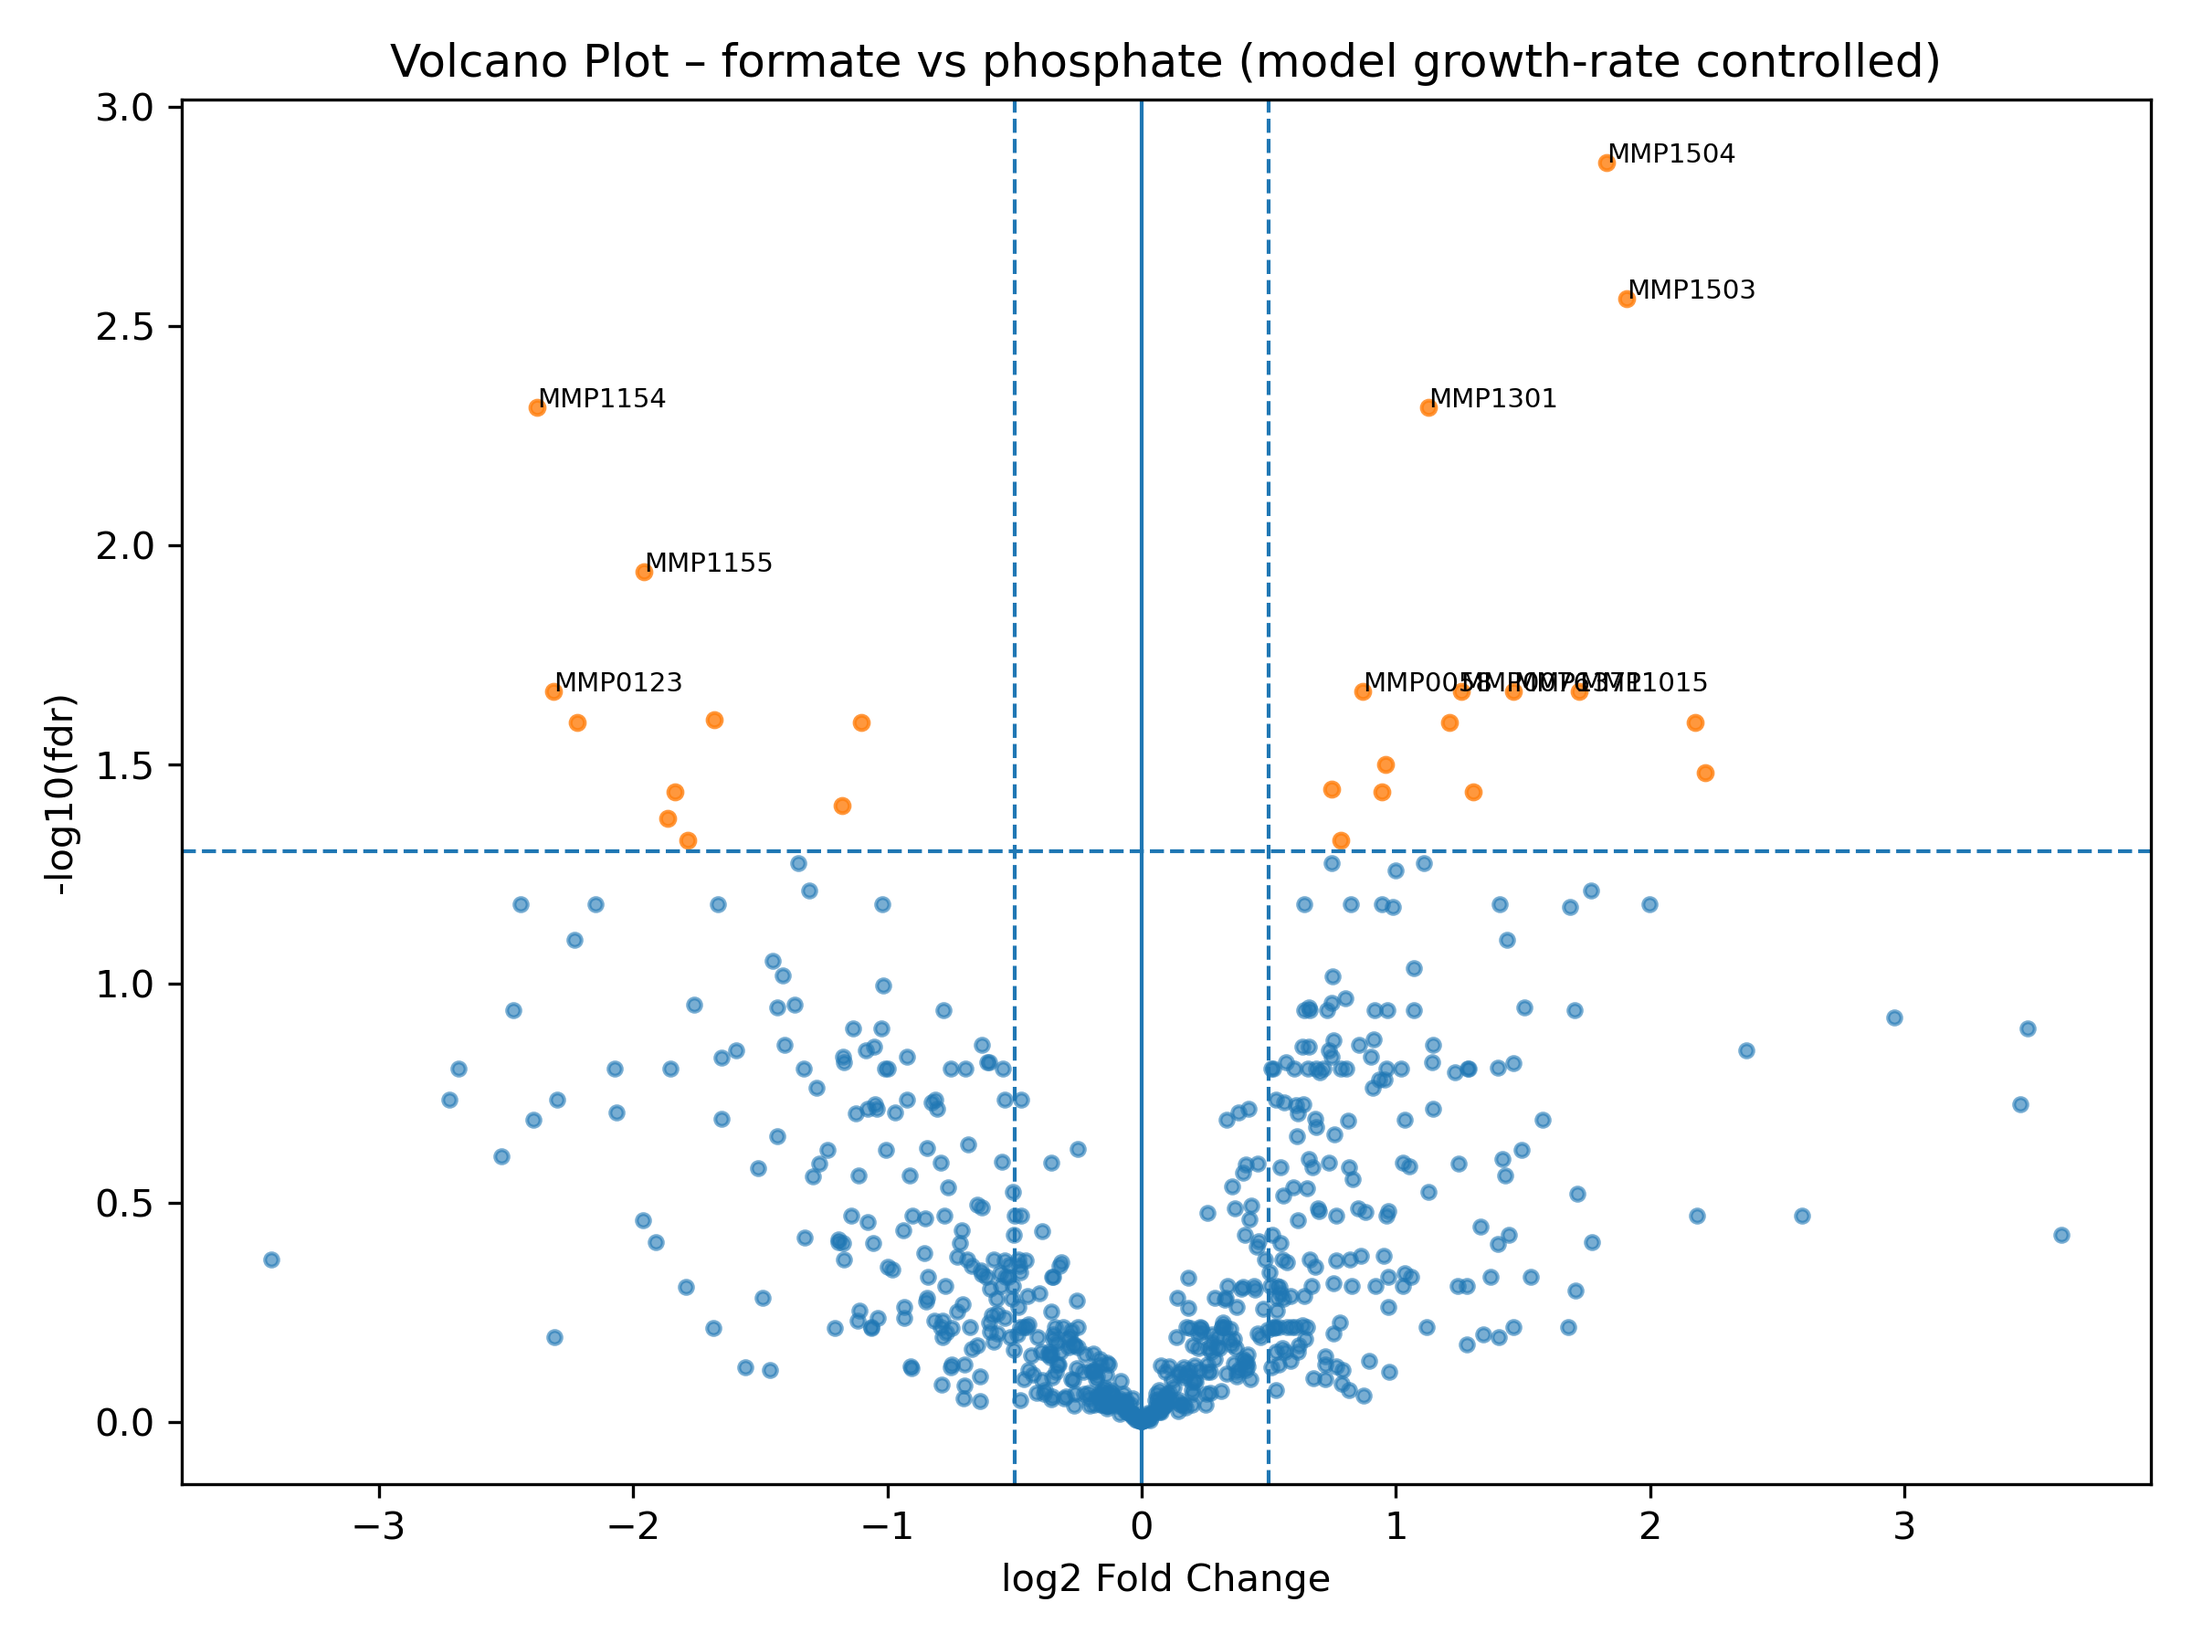
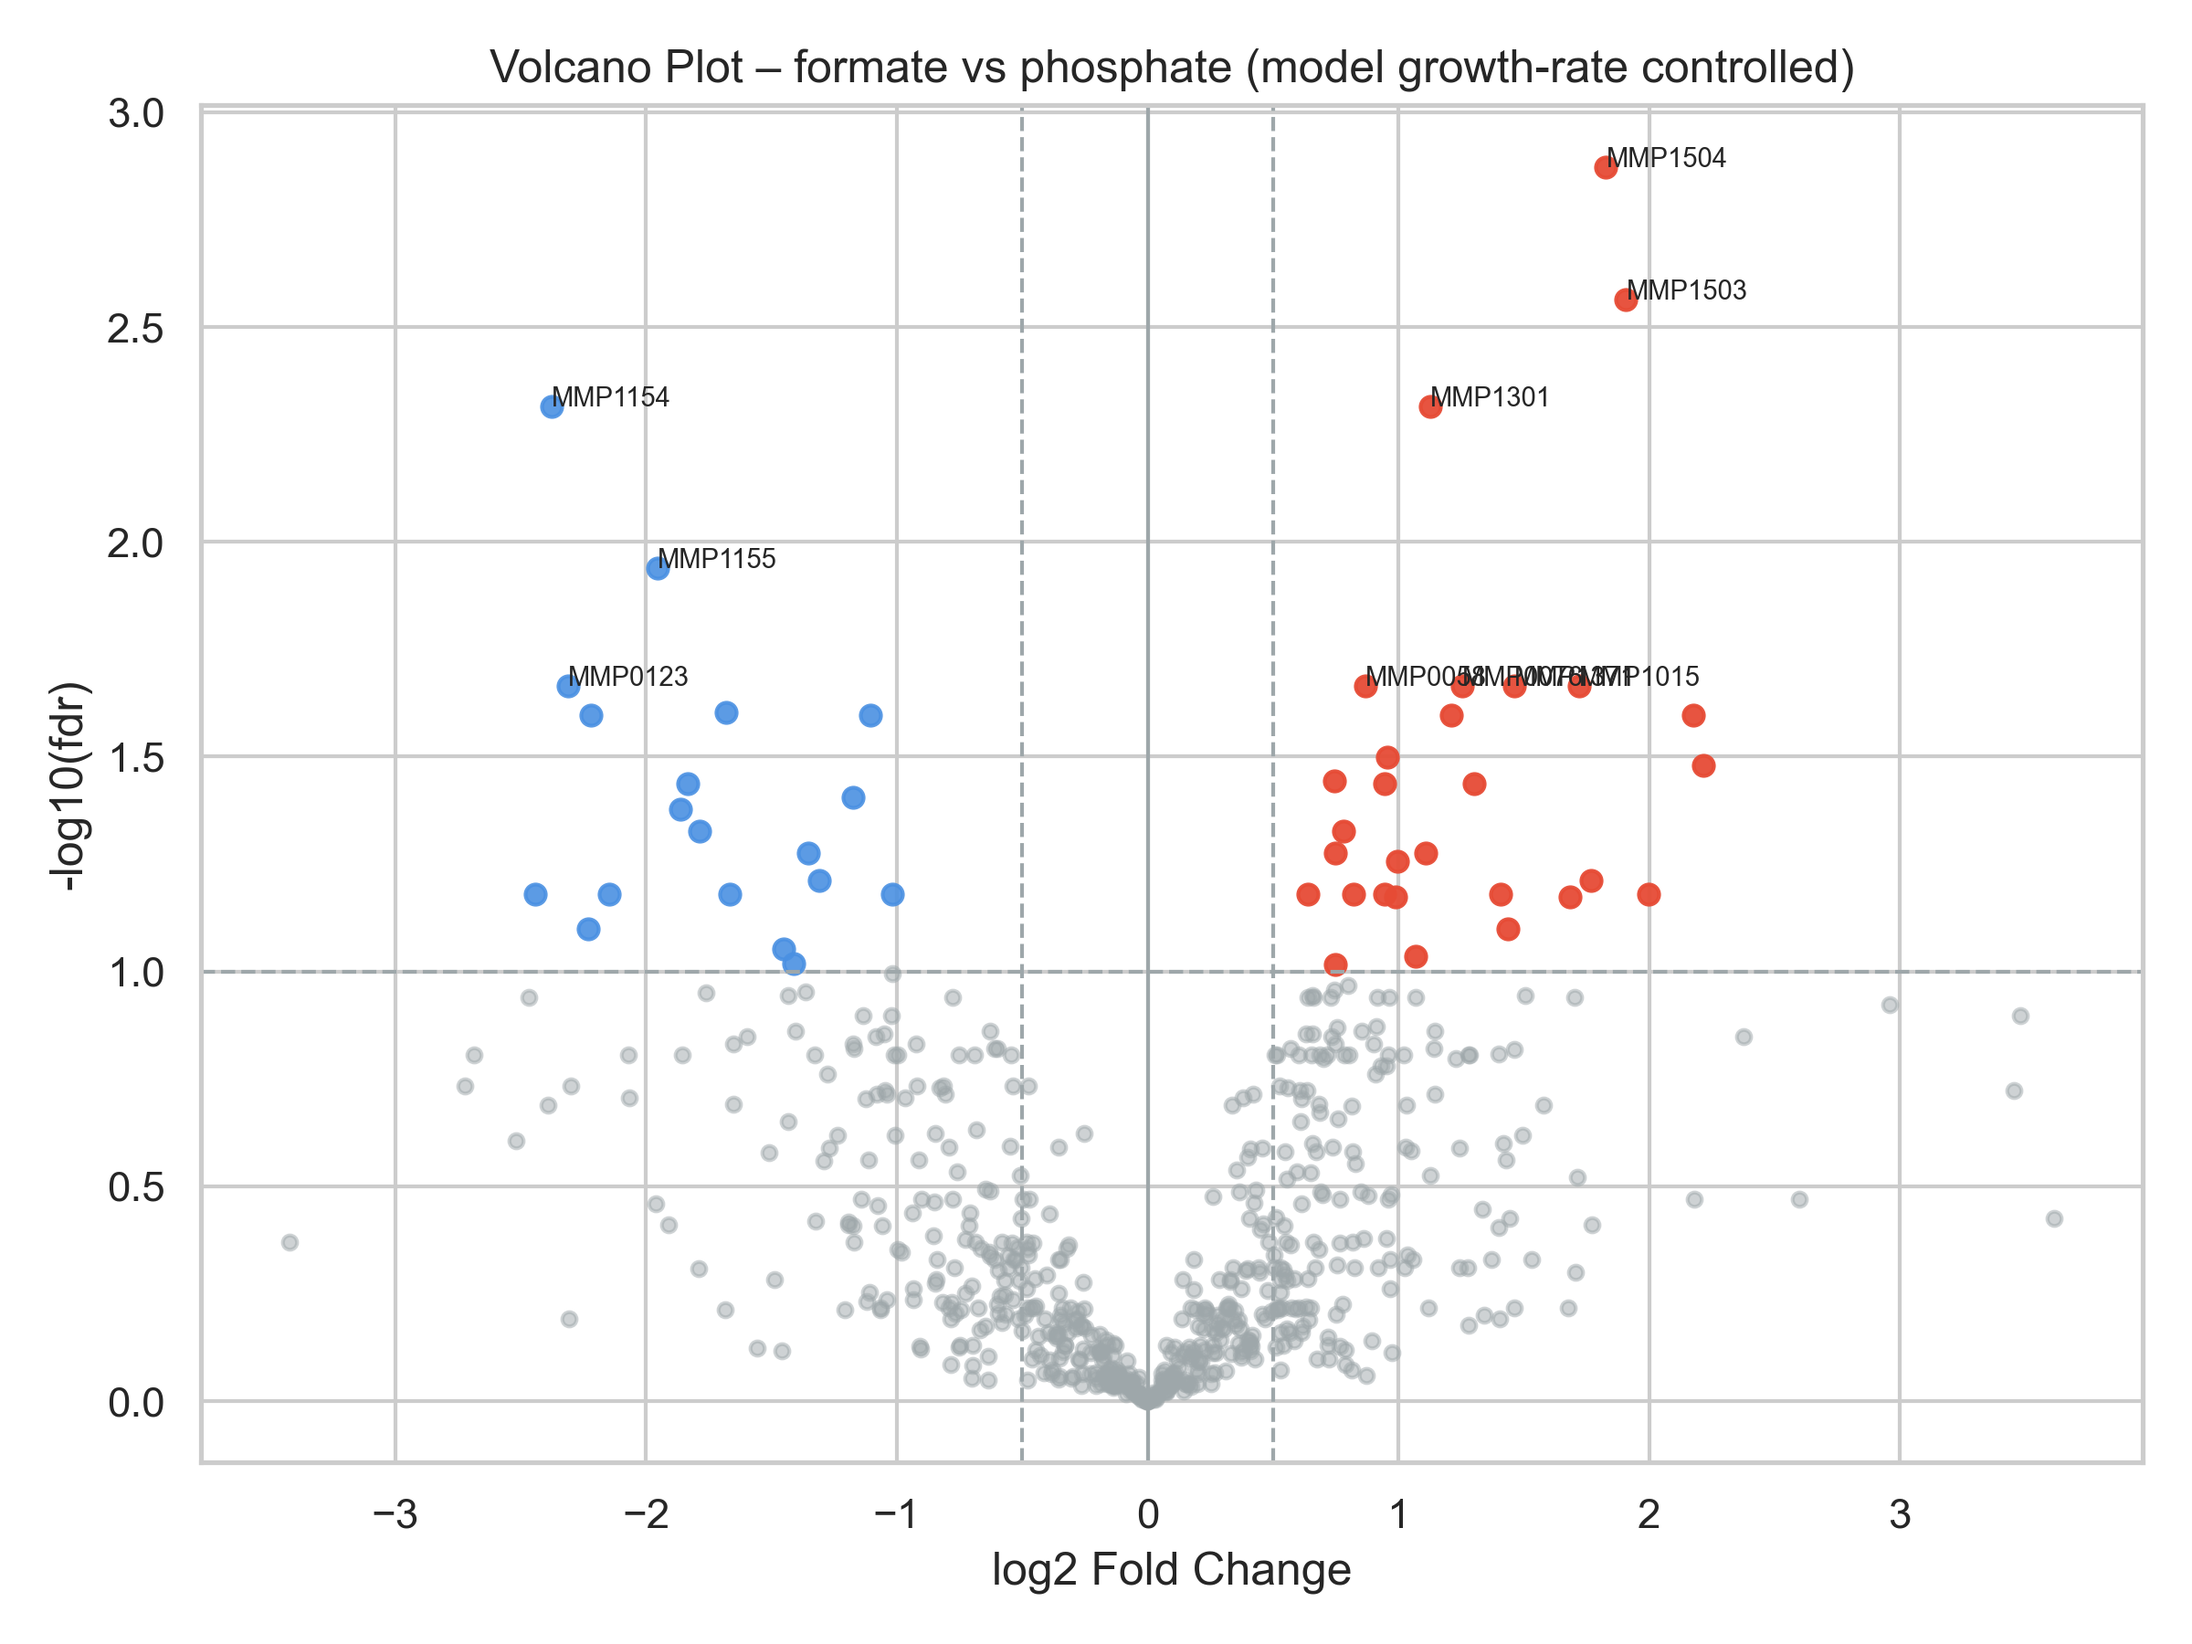
prettier plots

diff --git a/src/plots.py b/src/plots.py
@@ -1,8 +1,16 @@
 import matplotlib.pyplot as plt
+import seaborn as sns
 import numpy as np
 import pandas as pd
 from pathlib import Path
 from utils import GENE_COL, safe_neglog10
+
+# Visual theming: seaborn base style + a small set of pretty colors
+sns.set(style="whitegrid")
+POS_COLOR = "#E64B35"   # warm orange/red for positive effects
+NEG_COLOR = "#4A90E2"   # cool blue for negative effects
+NEUTRAL_COLOR = "#9EA7AA"  # muted grey for non-significant
+DIV_CMAP = sns.diverging_palette(240, 10, as_cmap=True)
 
 
 def volcano_plot(
@@ -12,7 +20,7 @@ def volcano_plot(
     title,
     outpath=None,
     fc_thresh=0.5,
-    sig_thresh=0.05,
+    sig_thresh=0.1,
     label_top_n=0,
     gene_col=GENE_COL,
     show=False
@@ -33,14 +41,19 @@ def volcano_plot(
     sig_mask = (plot_df[p_col] < sig_thresh) & (plot_df[x_col].abs() >= fc_thresh)
 
     plt.figure(figsize=(8, 6))
-    plt.scatter(plot_df.loc[~sig_mask, x_col], plot_df.loc[~sig_mask, "neglog10_p"], s=12, alpha=0.6)
-    plt.scatter(plot_df.loc[sig_mask, x_col], plot_df.loc[sig_mask, "neglog10_p"], s=14, alpha=0.8)
+    pos_sig = sig_mask & (plot_df[x_col] > 0)
+    neg_sig = sig_mask & (plot_df[x_col] < 0)
+    non_sig = ~sig_mask
+
+    plt.scatter(plot_df.loc[non_sig, x_col], plot_df.loc[non_sig, "neglog10_p"], s=14, alpha=0.5, color=NEUTRAL_COLOR)
+    plt.scatter(plot_df.loc[neg_sig, x_col], plot_df.loc[neg_sig, "neglog10_p"], s=28, alpha=0.9, color=NEG_COLOR)
+    plt.scatter(plot_df.loc[pos_sig, x_col], plot_df.loc[pos_sig, "neglog10_p"], s=28, alpha=0.95, color=POS_COLOR)
 
     # reference lines
-    plt.axvline(0, linewidth=1)
-    plt.axvline(fc_thresh, linestyle="--", linewidth=1)
-    plt.axvline(-fc_thresh, linestyle="--", linewidth=1)
-    plt.axhline(-np.log10(sig_thresh), linestyle="--", linewidth=1)
+    plt.axvline(0, linewidth=1, color=NEUTRAL_COLOR)
+    plt.axvline(fc_thresh, linestyle="--", linewidth=1, color=NEUTRAL_COLOR)
+    plt.axvline(-fc_thresh, linestyle="--", linewidth=1, color=NEUTRAL_COLOR)
+    plt.axhline(-np.log10(sig_thresh), linestyle="--", linewidth=1, color=NEUTRAL_COLOR)
 
     plt.xlabel("log2 Fold Change")
     plt.ylabel(f"-log10({p_col})")
@@ -123,7 +136,21 @@ def plot_top_expressed_genes_heatmap(
         colorbar_label = "log2 expression"
 
     plt.figure(figsize=(max(8, heatmap_plot.shape[1] * 0.6), max(8, heatmap_plot.shape[0] * 0.3)))
-    im = plt.imshow(heatmap_plot, aspect="auto")
+    # use blue-red diverging colormap and symmetric scaling when centered
+    cmap = DIV_CMAP
+    try:
+        cmap.set_bad("black")
+    except Exception:
+        pass
+    masked = np.ma.masked_invalid(heatmap_plot.values)
+    if center_by_gene:
+        max_abs = np.nanmax(np.abs(heatmap_plot.values)) if heatmap_plot.size else None
+        if max_abs is None:
+            im = plt.imshow(masked, aspect="auto", cmap=cmap)
+        else:
+            im = plt.imshow(masked, aspect="auto", cmap=cmap, vmin=-max_abs, vmax=max_abs)
+    else:
+        im = plt.imshow(masked, aspect="auto", cmap=cmap)
     plt.colorbar(im, label=colorbar_label)
 
     plt.xticks(range(len(heatmap_plot.columns)), heatmap_plot.columns, rotation=90)
@@ -234,7 +261,20 @@ def plot_formate_vs_phosphate_heatmap_from_model(
         cbar_label = "log2 expression"
 
     plt.figure(figsize=(max(10, heatmap_plot.shape[1] * 0.45), max(8, heatmap_plot.shape[0] * 0.3)))
-    im = plt.imshow(heatmap_plot, aspect="auto")
+    cmap = DIV_CMAP
+    try:
+        cmap.set_bad("black")
+    except Exception:
+        pass
+    masked = np.ma.masked_invalid(heatmap_plot.values)
+    if center_by_gene:
+        max_abs = np.nanmax(np.abs(heatmap_plot.values)) if heatmap_plot.size else None
+        if max_abs is None:
+            im = plt.imshow(masked, aspect="auto", cmap=cmap)
+        else:
+            im = plt.imshow(masked, aspect="auto", cmap=cmap, vmin=-max_abs, vmax=max_abs)
+    else:
+        im = plt.imshow(masked, aspect="auto", cmap=cmap)
     plt.colorbar(im, label=cbar_label)
 
     plt.xticks(range(len(heatmap_plot.columns)), heatmap_plot.columns, rotation=90)
@@ -334,8 +374,20 @@ def plot_formate_vs_phosphate_simple_heatmap(
     # Plot
     # -------------------------
     plt.figure(figsize=(max(10, len(heatmap_plot.columns) * 0.4), 3))
-
-    im = plt.imshow(heatmap_plot, aspect="auto")
+    cmap = DIV_CMAP
+    try:
+        cmap.set_bad("black")
+    except Exception:
+        pass
+    masked = np.ma.masked_invalid(heatmap_plot.values)
+    if center_by_gene:
+        max_abs = np.nanmax(np.abs(heatmap_plot.values)) if heatmap_plot.size else None
+        if max_abs is None:
+            im = plt.imshow(masked, aspect="auto", cmap=cmap)
+        else:
+            im = plt.imshow(masked, aspect="auto", cmap=cmap, vmin=-max_abs, vmax=max_abs)
+    else:
+        im = plt.imshow(masked, aspect="auto", cmap=cmap)
     plt.colorbar(im, label=cbar_label)
 
     plt.xticks(range(len(heatmap_plot.columns)), heatmap_plot.columns, rotation=90)

diff --git a/src/pathways.py b/src/pathways.py
@@ -3,6 +3,13 @@ import numpy as np
 import matplotlib.pyplot as plt
 from pathlib import Path
 from typing import Iterable, Union
+import seaborn as sns
+
+# plotting theme
+sns.set(style="whitegrid")
+PATHWAY_POS = "#E64B35"
+PATHWAY_NEG = "#4A90E2"
+PATHWAY_NEUTRAL = "#9EA7AA"
 
 
 # PROBLEM HOW TO GET THE METHANOGENSI MM GENE NAMES???
@@ -11,6 +18,12 @@ METHANOGENESIS_GENES = [
     "fwdA", "fwdB",
     "mtd", "mer"
 ]
+
+# METHANOGENESIS_GENES = [
+#     "MMP1559", "MMP1555", "MMP1096",
+#     "fwdA", "fwdB",
+#     "mtd", "mer"
+# ]
 
 
 def summarize_pathway_across_datasets(df1_bio: pd.DataFrame, df2_bio: pd.DataFrame, genes: Iterable[str], name1: str, name2: str, outdir: Union[str, Path] = "analysis_outputs") -> pd.DataFrame:
@@ -69,11 +82,12 @@ def plot_pathway_log2fc(summary_df: pd.DataFrame, outpath=None, show=False):
 
     plt.figure(figsize=(8, max(2, len(df) * 0.5)))
     y = np.arange(len(df))
-    plt.barh(y, df["log2FC"], color="tab:orange")
+    colors = [PATHWAY_POS if v > 0 else PATHWAY_NEG if v < 0 else PATHWAY_NEUTRAL for v in df["log2FC"]]
+    plt.barh(y, df["log2FC"], color=colors, edgecolor="#222222", linewidth=0.3)
     plt.yticks(y, df["gene"])
     plt.xlabel("log2FC (dataset1 - dataset2)")
     plt.title("Pathway gene log2 fold changes")
-    plt.axvline(0, color="k", linewidth=0.8)
+    plt.axvline(0, color=PATHWAY_NEUTRAL, linewidth=0.8)
     plt.tight_layout()
 
     if outpath is not None:
@@ -130,13 +144,13 @@ def plot_pathway_growth_trends(df1_bio: pd.DataFrame, df2_bio: pd.DataFrame, gen
         d1 = m1[m1["gene"] == gene].set_index("growth_rate")["log2_ratio"].reindex(grs)
         d2 = m2[m2["gene"] == gene].set_index("growth_rate")["log2_ratio"].reindex(grs)
 
-        ax.plot(grs, d1.values, marker="o", label=name1)
-        ax.plot(grs, d2.values, marker="s", label=name2)
-        ax.set_title(gene)
-        ax.set_xlabel("growth_rate")
-        ax.set_ylabel("mean log2_ratio")
-        ax.tick_params(axis="x", rotation=45)
-        ax.legend(fontsize="small")
+    ax.plot(grs, d1.values, marker="o", label=name1, color=PATHWAY_POS)
+    ax.plot(grs, d2.values, marker="s", label=name2, color=PATHWAY_NEG)
+    ax.set_title(gene)
+    ax.set_xlabel("growth_rate")
+    ax.set_ylabel("mean log2_ratio")
+    ax.tick_params(axis="x", rotation=45)
+    ax.legend(fontsize="small")
 
     # hide empty subplots
     for j in range(i + 1, nrows * ncols):

diff --git a/src/main_analysis.py b/src/main_analysis.py
@@ -19,7 +19,7 @@ from pathways import METHANOGENESIS_GENES, summarize_pathway_across_datasets, pl
 
 
 def shared_significant_hits(df_a, df_b, label_a, label_b, fc_col="log2FC", fdr_col="fdr",
-                            fdr_thresh=0.05, fc_thresh=0.5):
+                            fdr_thresh=0.1, fc_thresh=0.5):
     req_cols = {GENE_COL, fc_col, fdr_col}
     if not req_cols.issubset(df_a.columns) or not req_cols.issubset(df_b.columns):
         return pd.DataFrame()
@@ -109,7 +109,6 @@ def main(show_plots=False, fc_thresh=0.5):
                 title=f"Volcano Plot – {name1} {g1.upper()} vs {g2.upper()}",
                 outpath=outdir / f"{name1}_{g1}_vs_{g2}_volcano.png",
                 fc_thresh=fc_thresh,
-                sig_thresh=0.05,
                 label_top_n=10
                 , show=show_plots
             )
@@ -132,7 +131,6 @@ def main(show_plots=False, fc_thresh=0.5):
                 title=f"Volcano Plot – {name2} {g1.upper()} vs {g2.upper()}",
                 outpath=outdir / f"{name2}_{g1}_vs_{g2}_volcano.png",
                 fc_thresh=fc_thresh,
-                sig_thresh=0.05,
                 label_top_n=10
                 , show=show_plots
             )
@@ -169,7 +167,6 @@ def main(show_plots=False, fc_thresh=0.5):
             title=f"Volcano Plot – {name1} vs {name2} (full)",
             outpath=outdir / f"{name1}_vs_{name2}_full_volcano.png",
             fc_thresh=fc_thresh,
-            sig_thresh=0.05,
             label_top_n=10
             , show=show_plots
         )
@@ -239,7 +236,6 @@ def main(show_plots=False, fc_thresh=0.5):
             title=f"Volcano Plot – {name1} vs {name2} (model growth-rate controlled)",
             outpath=outdir / f"{name1}_vs_{name2}_growth_controlled_model_volcano.png",
             fc_thresh=fc_thresh,
-            sig_thresh=0.05,
             label_top_n=10
             , show=show_plots
         )

diff --git a/src/stringdb.py b/src/stringdb.py
@@ -6,6 +6,7 @@ import io
 import pandas as pd
 import matplotlib.pyplot as plt
 import numpy as np
+import seaborn as sns
 from pathlib import Path
 
 try:
@@ -117,9 +118,11 @@ def plot_top_terms_bar(df_or_path, outpath=None, top_n=20, category=None, show=F
     labels = plot_df["description"].fillna(plot_df.get("term", plot_df.index)).astype(str)
     values = plot_df["neglog10_fdr"].values
 
+    sns.set(style="whitegrid")
+    BAR_COLOR = "#4A90E2"
     plt.figure(figsize=(8, max(4, len(values) * 0.35)))
     y = np.arange(len(values))
-    plt.barh(y, values, color="tab:blue", alpha=0.85)
+    plt.barh(y, values, color=BAR_COLOR, alpha=0.95)
     plt.yticks(y, labels)
     plt.xlabel("-log10(FDR)")
     plt.title(f"Top {len(values)} enriched terms")
@@ -163,8 +166,10 @@ def plot_terms_dotplot(df_or_path, outpath=None, top_n=30, category=None, show=F
     sizes = plot_df.get("number_of_genes", pd.Series(1, index=plot_df.index)).fillna(1).astype(float).values
     sizes = (sizes - sizes.min() + 1) / max(1.0, (sizes.max() - sizes.min() + 1e-6)) * 200
 
+    sns.set(style="whitegrid")
+    cmap = sns.color_palette("plasma", as_cmap=True)
     plt.figure(figsize=(8, max(4, len(plot_df) * 0.35)))
-    plt.scatter(x, y, s=sizes, c=x, cmap="viridis", alpha=0.8)
+    plt.scatter(x, y, s=sizes, c=x, cmap=cmap, alpha=0.9, edgecolors="#222222", linewidths=0.3)
     plt.yticks(y, plot_df["label"])
     plt.xlabel("-log10(FDR)")
     plt.title(f"STRING enrichment (top {len(plot_df)} terms)")
